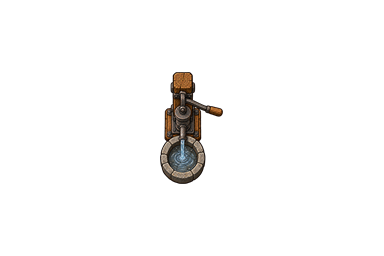
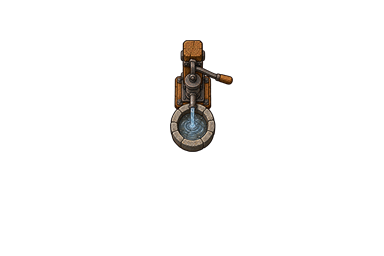
Contd.

Changed region(s): [[0.4062, 0.1562, 0.625, 0.7188]]

diff --git a/environments/three_branches/renderer/presentation.ts b/environments/three_branches/renderer/presentation.ts
@@ -255,6 +255,20 @@ export interface PhaseGrade {
 }
 
 /** Validated art and motion calibration owned by presentation.json. */
+interface VisualScaleTreatment {
+  defaultScale: number
+  scaleByType: Readonly<Record<string, number>>
+}
+
+export interface SourceAnchor {
+  x: number
+  y: number
+}
+
+interface PropVisualTreatment extends VisualScaleTreatment {
+  effectAnchorByType: Readonly<Record<string, SourceAnchor>>
+}
+
 export interface HearthsideStyle {
   palette: HearthsidePalette
   transition: { naturalMs: number; settleGraceMs: number }
@@ -279,10 +293,8 @@ export interface HearthsideStyle {
     walk: { frames: readonly string[]; frameRatio: number }
     visitor: { detail: string; tint: HearthsidePaletteKey }
   }
-  props: {
-    defaultScale: number
-    scaleByType: Readonly<Record<string, number>>
-  }
+  props: PropVisualTreatment
+  scenery: VisualScaleTreatment
   propEffects: Readonly<Record<string, { frames: readonly string[]; frameRate: number }>>
   emissives: { lantern: HearthsidePaletteKey; hearth: HearthsidePaletteKey; frame: string }
   cranes: {
@@ -338,7 +350,17 @@ export function phaseGrade(phase: string): PhaseGrade | null {
 
 /** Resolve one complete prop-still scale from the validated visual calibration. */
 export function propVisualScale(type: string): number {
-  return HEARTHSIDE_STYLE.props.scaleByType[type] ?? HEARTHSIDE_STYLE.props.defaultScale
+  return visualScaleFor(type, HEARTHSIDE_STYLE.props)
+}
+
+/** Resolve an effect anchor measured from the center of a complete prop source canvas. */
+export function propEffectAnchor(type: string): SourceAnchor {
+  return HEARTHSIDE_STYLE.props.effectAnchorByType[type] ?? { x: 0, y: 0 }
+}
+
+/** Resolve one scenery sprite scale from the validated visual calibration. */
+export function sceneryVisualScale(type: string): number {
+  return visualScaleFor(type, HEARTHSIDE_STYLE.scenery)
 }
 
 /** Validate an injected document for tests and future configuration edits. */
@@ -351,6 +373,7 @@ export function readHearthsideStyle(value: unknown): HearthsideStyle {
     'phaseGrades',
     'characters',
     'props',
+    'scenery',
     'propEffects',
     'emissives',
     'cranes',
@@ -511,7 +534,16 @@ export function readHearthsideStyle(value: unknown): HearthsideStyle {
     },
   }
 
-  const props = propScaleTreatment(source.props, 'presentation.props')
+  const props = propVisualTreatment(
+    source.props,
+    'presentation.props',
+    CATALOG.props.map((prop) => prop.token),
+  )
+  const scenery = visualScaleTreatment(
+    source.scenery,
+    'presentation.scenery',
+    CATALOG.scenery.map((item) => item.token),
+  )
 
   const effectsFrames = framesFor('effects')
   const propEffectsSource = exactRecord(source.propEffects, 'presentation.propEffects', [
@@ -582,30 +614,62 @@ export function readHearthsideStyle(value: unknown): HearthsideStyle {
     phaseGrades,
     characters,
     props,
+    scenery,
     propEffects,
     emissives,
     cranes,
   }
 }
 
-function propScaleTreatment(value: unknown, name: string): HearthsideStyle['props'] {
+function visualScaleTreatment(
+  value: unknown,
+  name: string,
+  knownTypes: readonly string[],
+): VisualScaleTreatment {
   const source = exactRecord(value, name, ['defaultScale', 'scaleByType'])
-  const overrides = recordWithOptional(
-    source.scaleByType,
-    `${name}.scaleByType`,
-    [],
-    CATALOG.props.map((prop) => prop.token),
-  )
-  const scaleByType = Object.fromEntries(
-    Object.entries(overrides).map(([type, scale]) => [
-      type,
-      boundedNumber(scale, `${name}.scaleByType.${type}`, 0.05, 0.5, true),
-    ]),
-  )
+  const overrides = recordWithOptional(source.scaleByType, `${name}.scaleByType`, [], knownTypes)
   return {
     defaultScale: boundedNumber(source.defaultScale, `${name}.defaultScale`, 0.05, 0.5, true),
-    scaleByType,
+    scaleByType: Object.fromEntries(
+      Object.entries(overrides).map(([type, scale]) => [
+        type,
+        boundedNumber(scale, `${name}.scaleByType.${type}`, 0.05, 0.5, true),
+      ]),
+    ),
   }
+}
+
+function propVisualTreatment(
+  value: unknown,
+  name: string,
+  knownTypes: readonly string[],
+): PropVisualTreatment {
+  const source = exactRecord(value, name, ['defaultScale', 'scaleByType', 'effectAnchorByType'])
+  const scales = visualScaleTreatment(
+    { defaultScale: source.defaultScale, scaleByType: source.scaleByType },
+    name,
+    knownTypes,
+  )
+  const anchors = recordWithOptional(source.effectAnchorByType, `${name}.effectAnchorByType`, [], knownTypes)
+  return {
+    ...scales,
+    effectAnchorByType: Object.fromEntries(
+      Object.entries(anchors).map(([type, value]) => {
+        const anchor = exactRecord(value, `${name}.effectAnchorByType.${type}`, ['x', 'y'])
+        return [
+          type,
+          {
+            x: boundedNumber(anchor.x, `${name}.effectAnchorByType.${type}.x`, -192, 192),
+            y: boundedNumber(anchor.y, `${name}.effectAnchorByType.${type}.y`, -128, 128),
+          },
+        ]
+      }),
+    ),
+  }
+}
+
+function visualScaleFor(type: string, treatment: VisualScaleTreatment): number {
+  return treatment.scaleByType[type] ?? treatment.defaultScale
 }
 
 function contourTreatment(value: unknown, name: string): TerrainContourTreatment {

diff --git a/environments/three_branches/renderer/props-layer.ts b/environments/three_branches/renderer/props-layer.ts
@@ -3,13 +3,18 @@ import { Container, Graphics, Sprite, Texture } from 'pixi.js'
 import { THREE_BRANCHES_ASSET_CATALOG } from './assets.js'
 import { emissiveSpec, hasPropEffect, propEffectFrames, propEffectSpec } from './effects.js'
 import { CATALOG } from './overlay.js'
-import { HEARTHSIDE_STYLE, PALETTE, propVisualScale } from './presentation.js'
+import {
+  HEARTHSIDE_STYLE,
+  PALETTE,
+  propEffectAnchor,
+  propVisualScale,
+  sceneryVisualScale,
+} from './presentation.js'
 import { isShippedPropType, propFoundationFrame, propTreatment, sceneryFrame } from './props-art.js'
 import { frameRectangle } from './tint.js'
 
 import type { FrameScene, StaticDrawable, StaticScene } from './types.js'
 
-const SCENERY_SCALE = 0.25
 const EFFECT_SCALE = 0.25
 const FIXED_MONUMENT_TYPES = new Set(['pump', 'bell'])
 
@@ -144,7 +149,12 @@ export function createPropLayer(
           node.effect.tint = HEARTHSIDE_STYLE.palette[effect.tint]
           node.effect.alpha = effect.alpha
           node.effect.scale.set(EFFECT_SCALE * effect.scale)
-          node.effect.position.set(centerX(node.item) + effect.offsetX, centerY(node.item) + effect.offsetY)
+          const propScale = propVisualScale(node.item.type)
+          const anchor = propEffectAnchor(node.item.type)
+          node.effect.position.set(
+            centerX(node.item) + anchor.x * propScale + effect.offsetX,
+            centerY(node.item) + anchor.y * propScale + effect.offsetY,
+          )
           node.effect.rotation = visualFacing(node.item) + effect.rotation
         }
         if (emissive !== null) {
@@ -203,8 +213,18 @@ function createPropNode(item: StaticDrawable): PropNode {
 
 function installScenery(layer: Container, item: StaticDrawable, art: PropArt): void {
   const root = layer.children.find((child) => child.label === `scenery:${item.id}`)
-  if (!(root instanceof Container) || root.getChildByLabel('scenery-art') !== null) return
-  const artNode = sprite('scenery-art', texture(art.scenery, sceneryFrame(item.type, item.id)), SCENERY_SCALE)
+  if (!(root instanceof Container)) return
+  const existing = root.getChildByLabel('scenery-art')
+  if (existing instanceof Sprite) {
+    existing.scale.set(sceneryVisualScale(item.type))
+    return
+  }
+  if (existing !== null) return
+  const artNode = sprite(
+    'scenery-art',
+    texture(art.scenery, sceneryFrame(item.type, item.id)),
+    sceneryVisualScale(item.type),
+  )
   artNode.tint = HEARTHSIDE_STYLE.palette[item.type === 'pine' ? 'pine' : 'timber']
   root.addChild(artNode)
   const fallbackNode = root.getChildByLabel('scenery-fallback')

diff --git a/environments/three_branches/renderer/contour-debug.ts b/environments/three_branches/renderer/contour-debug.ts
@@ -13,6 +13,7 @@ import { fileURLToPath, pathToFileURL } from 'node:url'
 
 import { RULES } from './overlay.js'
 import { HEARTHSIDE_STYLE } from './presentation.js'
+import { coordinateKey } from './terrain-contour-graph.js'
 import { findCurveCrossings, maxCurveTubeDeviation } from './terrain-contour-validation.js'
 import { planTerrainContours } from './terrain-contours.js'
 import { planTerrainRoutes } from './terrain-routes.js'
@@ -242,9 +243,15 @@ export function contourSvg(scene: ContourDebugScene, options: SvgOptions): strin
     raw.push(path(chain.rawPoints, false))
     reference.push(path(closedPolyline(chain.referencePoints, chain.closed), chain.closed))
     drawn.push(path(closedPoints(chain), false))
-    for (const [index, point] of chain.referencePoints.entries()) {
+    // The reference and the drawn curve are sampled at their own spacings, so a reference vertex is
+    // read as locked by position rather than by index: a lock pins the drawn sample there onto the
+    // same raw point the reference vertex holds.
+    const lockedPoints = new Set(
+      chain.points.filter((point) => point.locked).map((point) => coordinateKey(point)),
+    )
+    for (const point of chain.referencePoints) {
       if (!visible(point)) continue
-      const locked = chain.points[index]?.locked === true ? ' class="locked"' : ''
+      const locked = lockedPoints.has(coordinateKey(point)) ? ' class="locked"' : ''
       reference.push(`<circle cx="${round(point.x)}" cy="${round(point.y)}" r="0.06"${locked}/>`)
     }
   }

diff --git a/environments/three_branches/renderer/effects.ts b/environments/three_branches/renderer/effects.ts
@@ -56,7 +56,7 @@ export function propEffectSpec(
     case 'shrine':
       return { frame, tint: 'violet', alpha: 0.45 + wave * 0.16, scale: 0.86 + wave * 0.1, offsetX: 0, offsetY: -4 - wave * 3, rotation: wave * 0.08, phase }
     case 'pump':
-      return { frame, tint: 'water', alpha: 0.72 + wave * 0.14, scale: 0.94 + wave * 0.06, offsetX: 2.9, offsetY: -4 + wave * 2, rotation: 0, phase }
+      return { frame, tint: 'water', alpha: 0.72 + wave * 0.14, scale: 0.94 + wave * 0.06, offsetX: 0, offsetY: wave * 2, rotation: 0, phase }
     case 'bell':
       return { frame, tint: 'gilt', alpha: 0.58 + wave * 0.2, scale: 1, offsetX: 0, offsetY: -5, rotation: wave * 0.12, phase }
   }

diff --git a/plans/days-at-three-branches/stages/5-1-art-style.md b/plans/days-at-three-branches/stages/5-1-art-style.md
@@ -79,7 +79,7 @@ Build characters from shared north-facing grayscale-alpha masks in a conventiona
 
 ![Approved top-down shooter direction](../art/top-down-shooter-direction.png)
 
-Every catalog state has one distinct complete north-facing still across its catalog footprint, turned to its facing. Each 384 by 256 runtime canvas centers that footprint with at least two transparent pixels at its edge. The atlas leaves its unnamed trailing cells transparent. The pump is a fixed north-facing monument: its circular footing stays centered on the placement cell while the mechanism may extend north beyond its smaller collision circle. The bell has a state-independent circular stone foundation below characters and a fixed-north upper assembly above them. The configured prop scale defaults to 0.14 and overrides bell to 0.20 for both art parts, while its collision remains a 0.4-cell circle. Drive the result only from prop id, type, state, facing, and tick.
+Every catalog state has one distinct complete north-facing still across its catalog footprint, turned to its facing. Each 384 by 256 runtime canvas centers that footprint with at least two transparent pixels at its edge. The atlas leaves its unnamed trailing cells transparent. The pump is a fixed north-facing monument: its circular footing is mechanically registered to the centered 0.6-cell collision circle while the mechanism may extend north beyond it. The bell has a state-independent circular stone foundation below characters and a fixed-north upper assembly above them. The configured prop scale defaults to 0.14, overrides bell to 0.36 for both art parts, and overrides pump to 0.33, while bell collision remains a 0.6-cell circle. Drive the result only from prop id, type, state, facing, and tick.
 
 | Prop | Still treatment |
 | --- | --- |
@@ -91,8 +91,8 @@ Every catalog state has one distinct complete north-facing still across its cata
 | Garden plot | `tended` has ordered dark furrows and young green rows; `overgrown` has irregular pine-green growth that does not hide the fence. |
 | Inn hearth | `lit` has a gilt-and-cinnabar coal core; `unlit` has cool ash and stacked dark wood. |
 | Repair bench | `busy` has a laid-out tool and bright workpiece; `idle` has a cleared top and stored tools. |
-| Well pump | Its round well curb is centered on the collision circle and its fixed-north mechanical assembly extends beyond it. `flowing` has a visible pale water stream and wet basin mark; `idle` has a dry basin and upright handle. |
-| Beacon bell | Its state-independent filled circular stone foundation is centered on the 0.4-cell collision circle below characters. Its fixed-north timber bell upper assembly extends beyond it above characters. The configured 0.14 default overrides both parts to 0.20. The registered `ringing` upper has a tilted bell and exposed clapper, while `silent` hangs plumb. Manual owner review remains pending. |
+| Well pump | Its round well curb is mechanically registered to the centered 0.6-cell collision circle and its fixed-north mechanical assembly extends north beyond it. `flowing` has a visible pale water stream and wet basin mark. Its configured `(31, -61)` source-pixel effect anchor is multiplied by the configured pump scale, and the current stills carry a 4-pixel downward registration adjustment; `idle` has a dry basin and upright handle. |
+| Beacon bell | Its state-independent filled circular stone foundation is centered on the 0.6-cell collision circle below characters. Its fixed-north timber bell upper assembly extends beyond it above characters. The configured 0.14 default overrides both parts to 0.36. The registered `ringing` upper has a tilted bell and exposed clapper, while `silent` hangs plumb. Manual owner review remains pending. |
 
 Animate only lantern flicker, hearth fire, shrine incense, pump water, and bell swing. Each animation is a seek-safe function of fractional playback tick, prop id, current state, and a stable hash phase. A new prop type needs no renderer change only when it reuses a placement token, art treatment, and transition mechanism.
 
@@ -106,7 +106,7 @@ With `daynight`, the overlay's dawn, morning, midday, evening, or night phase se
 
 The local manifest is the only asset catalog. Keep only the high-resolution originals used by the approved art in `environments/three_branches/renderer/source-art/`. Keep optimised compiled files in `environments/three_branches/renderer/assets/`. Loose per-frame files under `assets/<group>/` are the editable truth; [step 5.0](5-0-atlas.md) compiles them into the atlas pages, and both are committed. Use grayscale-alpha masks for tintable textures and full-colour raster art only where tinting cannot express the treatment.
 
-`environments/three_branches/renderer/presentation.json`, validated by `presentation.ts`, owns the palette, ground variants, land, water, road, and path curve profiles, seam treatments (pooling, ink, water hatching), reed marks, inset route and deck geometry, roof fade, phase grades, character treatments, prop effects, and crane dressing. `generation.json` remains generation-only, so visual calibration cannot alter seeded layouts.
+`environments/three_branches/renderer/presentation.json`, validated by `presentation.ts`, owns the palette, ground variants, land, water, road, and path curve profiles, seam treatments (pooling, ink, water hatching), reed marks, inset route and deck geometry, roof fade, phase grades, character treatments, prop and scenery scales, prop effects, and crane dressing. `generation.json` remains generation-only, so visual calibration cannot alter seeded layouts.
 
 `renderer/assets.ts` owns the catalog and runtime loader. Its six atlas entries record each source and compiled file, dimensions, tintability, consumer, and sprite-sheet frame grid. The runtime loader resolves only pages with shipped consumers: terrain, props, scenery, the four character layers, and effects. Edit art by changing loose frames and running the step 5.0 pack command, never by hand-editing an atlas page.
 
@@ -123,7 +123,7 @@ The separate 320 by 180 thumbnail is a final Hearthside Ink image, not a screens
 
 ### Collision truth
 
-[ruleset.md](../ruleset.md) fixes impassable ground, catalog collision shapes, counts, states, transitions, and prop reach. The collision overlay remains exact and authoritative. Natural surface contours may move by at most 0.6 cell perpendicular to the source edge while preserving the 0.45-cell corridor; they may cross cell centres. Walls, doorways, catalog shapes, the collision grid, generation, and recordings remain exact. Water and walls read solid, doorway ground open, and round catalog shapes read round, so walkers visibly slide around the pump, hearth, bell, lantern, and pine. The pump and bell use a 0.4-cell centered collision diameter inside their one-cell placement footprints. Their upper mechanisms, shadows, glow, smoke, and other non-solid effects may extend outside that shape. Art needing another extent changes the ground table or catalog and its generator, fixture, overlay, and tests together.
+[ruleset.md](../ruleset.md) fixes impassable ground, catalog collision shapes, counts, states, transitions, and prop reach. The collision overlay remains exact and authoritative. Natural surface contours may move by at most 0.6 cell perpendicular to the source edge while preserving the 0.45-cell corridor; they may cross cell centres. Walls, doorways, catalog shapes, the collision grid, generation, and recordings remain exact. Water and walls read solid, doorway ground open, and round catalog shapes read round, so walkers visibly slide around the pump, hearth, bell, lantern, and pine. The pump and bell use a 0.6-cell centered collision diameter inside their one-cell placement footprints. Their upper mechanisms, shadows, glow, smoke, and other non-solid effects may extend outside that shape. Art needing another extent changes the ground table or catalog and its generator, fixture, overlay, and tests together.
 
 ## Correctness, review, and configuration
 
@@ -135,7 +135,7 @@ Status: complete.
 
 The common layer under every visual step. It has no owner gate: the step 3 solid-colour drawing still renders until art lands, so every existing probe and journey keeps its meaning.
 
-- `presentation.json` holds `palette` (the 13 keys), `transition` (natural and settle-grace durations), `terrain` (fills, contour calibration, seam treatments, reed marks, planks, upper wall), `roofs` (clear alpha and fade duration), `phaseGrades` (dawn, morning, midday, evening, night, no day entry), `characters` (clothing tints, details, walk, visitor), `props` (default still scale and type overrides), `propEffects` (lantern, hearth, shrine, pump, bell), `emissives`, and `cranes`.
+- `presentation.json` holds `palette` (the 13 keys), `transition` (natural and settle-grace durations), `terrain` (fills, contour calibration, seam treatments, reed marks, planks, upper wall), `roofs` (clear alpha and fade duration), `phaseGrades` (dawn, morning, midday, evening, night, no day entry), `characters` (clothing tints, details, walk, visitor), `props` (0.14 default still scale, bell and pump scale overrides, and prop-relative effect anchors), `scenery` (0.25 default sprite scale with crates at 0.30), `propEffects` (lantern, hearth, shrine, pump, bell), `emissives`, and `cranes`.
 - `presentation.ts` validates it in the `overlay.ts` style, cross-checks every frame name against the manifest, every tint against the palette, and the graded phases against `rules.json`, and exports `HEARTHSIDE_STYLE`. The step 3 canvas and camera numbers stay in TypeScript, and the provisional palette becomes a diagnostic palette kept for chrome, the collision overlay, and the pre-asset fallback.
 - `tint.ts` maps manifest frame grids to rectangles and bakes tinted grayscale masks for the tiled ground in a browser-only canvas, cached per atlas, frame, and tint. Sprites elsewhere tint directly.
 - `index.ts` reshuffles the scene graph to `worldRoot { gradedWorld { map, scenery, props, characters, upper }, emissives, collision }` with chrome outside the camera transform, matching the draw order above. One ColorMatrixFilter on `gradedWorld` is the world-only grade, so post-grade and ungraded are structural.
@@ -143,7 +143,7 @@ The common layer under every visual step. It has no owner gate: the step 3 solid
 
 `overlay.ts`, `collision.ts`, `collision-layer.ts`, `chrome.ts`, and `camera.ts` do not change. Tests cover configuration validation, the 13 fixed hexes, day-grade neutrality, and the paced and unpaced duration rules.
 
-The foundation's successful art load swaps in the configured tinted terrain fills. Successful prop-art installation reapplies configured foundation and still scales to retained nodes only after full art preflight succeeds. The Terrain step owns fill variation, contour composition, shoreline, bridge overlays, and upper-wall artwork. The world-grade filter remains neutral until the Phase, cranes, and cadence step composes and applies the configured grades.
+The foundation's successful art load swaps in the configured tinted terrain fills. Successful prop-art installation reapplies configured foundation and still scales, plus retained scenery-art scales, only after full art preflight succeeds. The Terrain step owns fill variation, contour composition, shoreline, bridge overlays, and upper-wall artwork. The world-grade filter remains neutral until the Phase, cranes, and cadence step composes and applies the configured grades.
 
 ## Terrain
 
@@ -184,13 +184,13 @@ Pending. The owner reviews the cast in watch sessions and records the date here.
 
 ## Props, scenery, and effects
 
-`props-art.ts` resolves every catalog type and state to one complete north-facing state still. Each 384 by 256 canvas centers its collision footprint, holds at least two transparent pixels at the edge, and draws at the owner-calibrated fixed scale inside a facing container. `SHIPPED_PROP_TYPES` enables all ten complete prop still types. The pump ignores placement facing, keeps its centered shadow below characters, and draws its complete still and effects in the upper character layer. The bell adds its state-independent foundation to the prop layer below characters, while its fixed-north upper still and effect stay in the upper character layer. `effects.ts` holds the five sustained animations and emissive specs as pure functions of fractional tick, prop id, state, and stable hash phase. Effect configuration objects own their frames and `frameRate`. `props-layer.ts` keeps scenery unchanged, validates the shipped still and needed accent frames before installation, and installs art atomically.
+`props-art.ts` resolves every catalog type and state to one complete north-facing state still. Each 384 by 256 canvas centers its collision footprint, holds at least two transparent pixels at the edge, and draws at the owner-calibrated fixed scale inside a facing container. `SHIPPED_PROP_TYPES` enables all ten complete prop still types. The pump ignores placement facing, keeps its centered shadow below characters, and draws its mechanically registered complete still and water effect in the upper character layer. Its water anchor belongs to the pump presentation configuration, is expressed in prop-source pixels, and is multiplied by the configured pump scale. The bell adds its state-independent foundation to the prop layer below characters, while its fixed-north upper still and effect stay in the upper character layer. `effects.ts` holds the five sustained animations and emissive specs as pure functions of fractional tick, prop id, state, and stable hash phase. Effect configuration objects own their frames and `frameRate`. `props-layer.ts` applies the configured 0.25 scenery baseline with a 0.30 crate override, validates the shipped still and needed accent frames before installation, and installs art atomically.
 
 After visual acceptance, tests cover every catalog state mapping, enabled-type preflight, excluded-type fallback, fixed scaling, centered placement, facing rotation, and deterministic animation. The owner then reviews every state in [the treatment table](#characters-props-and-dressing), the pines and crates, and the emissives.
 
 ### Prop sign-off
 
-The owner approved all ten complete prop still types on 2026-08-15. The accepted still art remains approved. The next manual owner review covers the native-density correction, slower expanded animations, the owner-calibrated character and prop sizes, subtle prop contact shadows, and the revised fixed-north pump and bell. Confirm that each monument's collision circle follows its centered round footing, its upper mechanism occludes characters, and the bell reads as a solid civic plinth rather than a well. State shadows and the two monument mechanisms may extend beyond collision, while gameplay and collision remain exact. Review the accepted slice by toggling `stall_0` and `lantern_0`, tending `plot_0`, waiting 600 ticks for its return, inspecting fitted, middle, and close zoom with collision overlays, and confirming north and south stall rotation. The review accepts no fragments, clear state changes, correctly layered accents, exact collision registration, and the pending calibration.
+The owner approved all ten complete prop still types on 2026-08-15. The accepted still art remains approved. The next manual owner review covers the native-density correction, slower expanded animations, the owner-calibrated character and prop sizes, subtle prop contact shadows, and the revised fixed-north pump and bell. Confirm that each monument's collision circle follows its centered round footing, its upper mechanism occludes characters, and the bell reads as a solid civic plinth rather than a well. State shadows and the two monument mechanisms may extend beyond collision, while gameplay and collision remain exact. Review the accepted slice by toggling `stall_0` and `lantern_0`, tending `plot_0`, waiting 600 ticks for its return, inspecting fitted, middle, and close zoom with collision overlays, and confirming north and south stall rotation. The review accepts no fragments, clear state changes, correctly layered accents, exact collision registration, and the pending 0.6-cell collision, 4-pixel-down pump registration, source-pixel water anchor, and crate-scale calibration.
 
 ## Roofs
 

diff --git a/plans/days-at-three-branches/ruleset.md b/plans/days-at-three-branches/ruleset.md
@@ -70,8 +70,8 @@ The wall ring takes a cell off each side, so a site's floor is its cells less tw
 | plot | 3 by 2, solid box filling its rect | 5 | tending the plot | tended, overgrown | overgrown | timed, 600 ticks |
 | hearth | 1 by 1, solid inscribed circle | 1 | tending the hearth | lit, unlit | unlit | toggle |
 | repair_bench | 2 by 1, solid box filling its rect | 1 | working the bench | busy, idle | idle | occupancy |
-| pump | 1 by 1, solid inscribed circle | 1 | working the pump | flowing, idle | idle | timed, 10 ticks |
-| bell | 1 by 1, solid inscribed circle | 1 | ringing the bell | ringing, silent | silent | timed, 40 ticks |
+| pump | 1 by 1, centered 0.6-cell-diameter solid circle | 1 | working the pump | flowing, idle | idle | timed, 10 ticks |
+| bell | 1 by 1, centered 0.6-cell-diameter solid circle | 1 | ringing the bell | ringing, silent | silent | timed, 40 ticks |
 
 ### Scenery types
 
